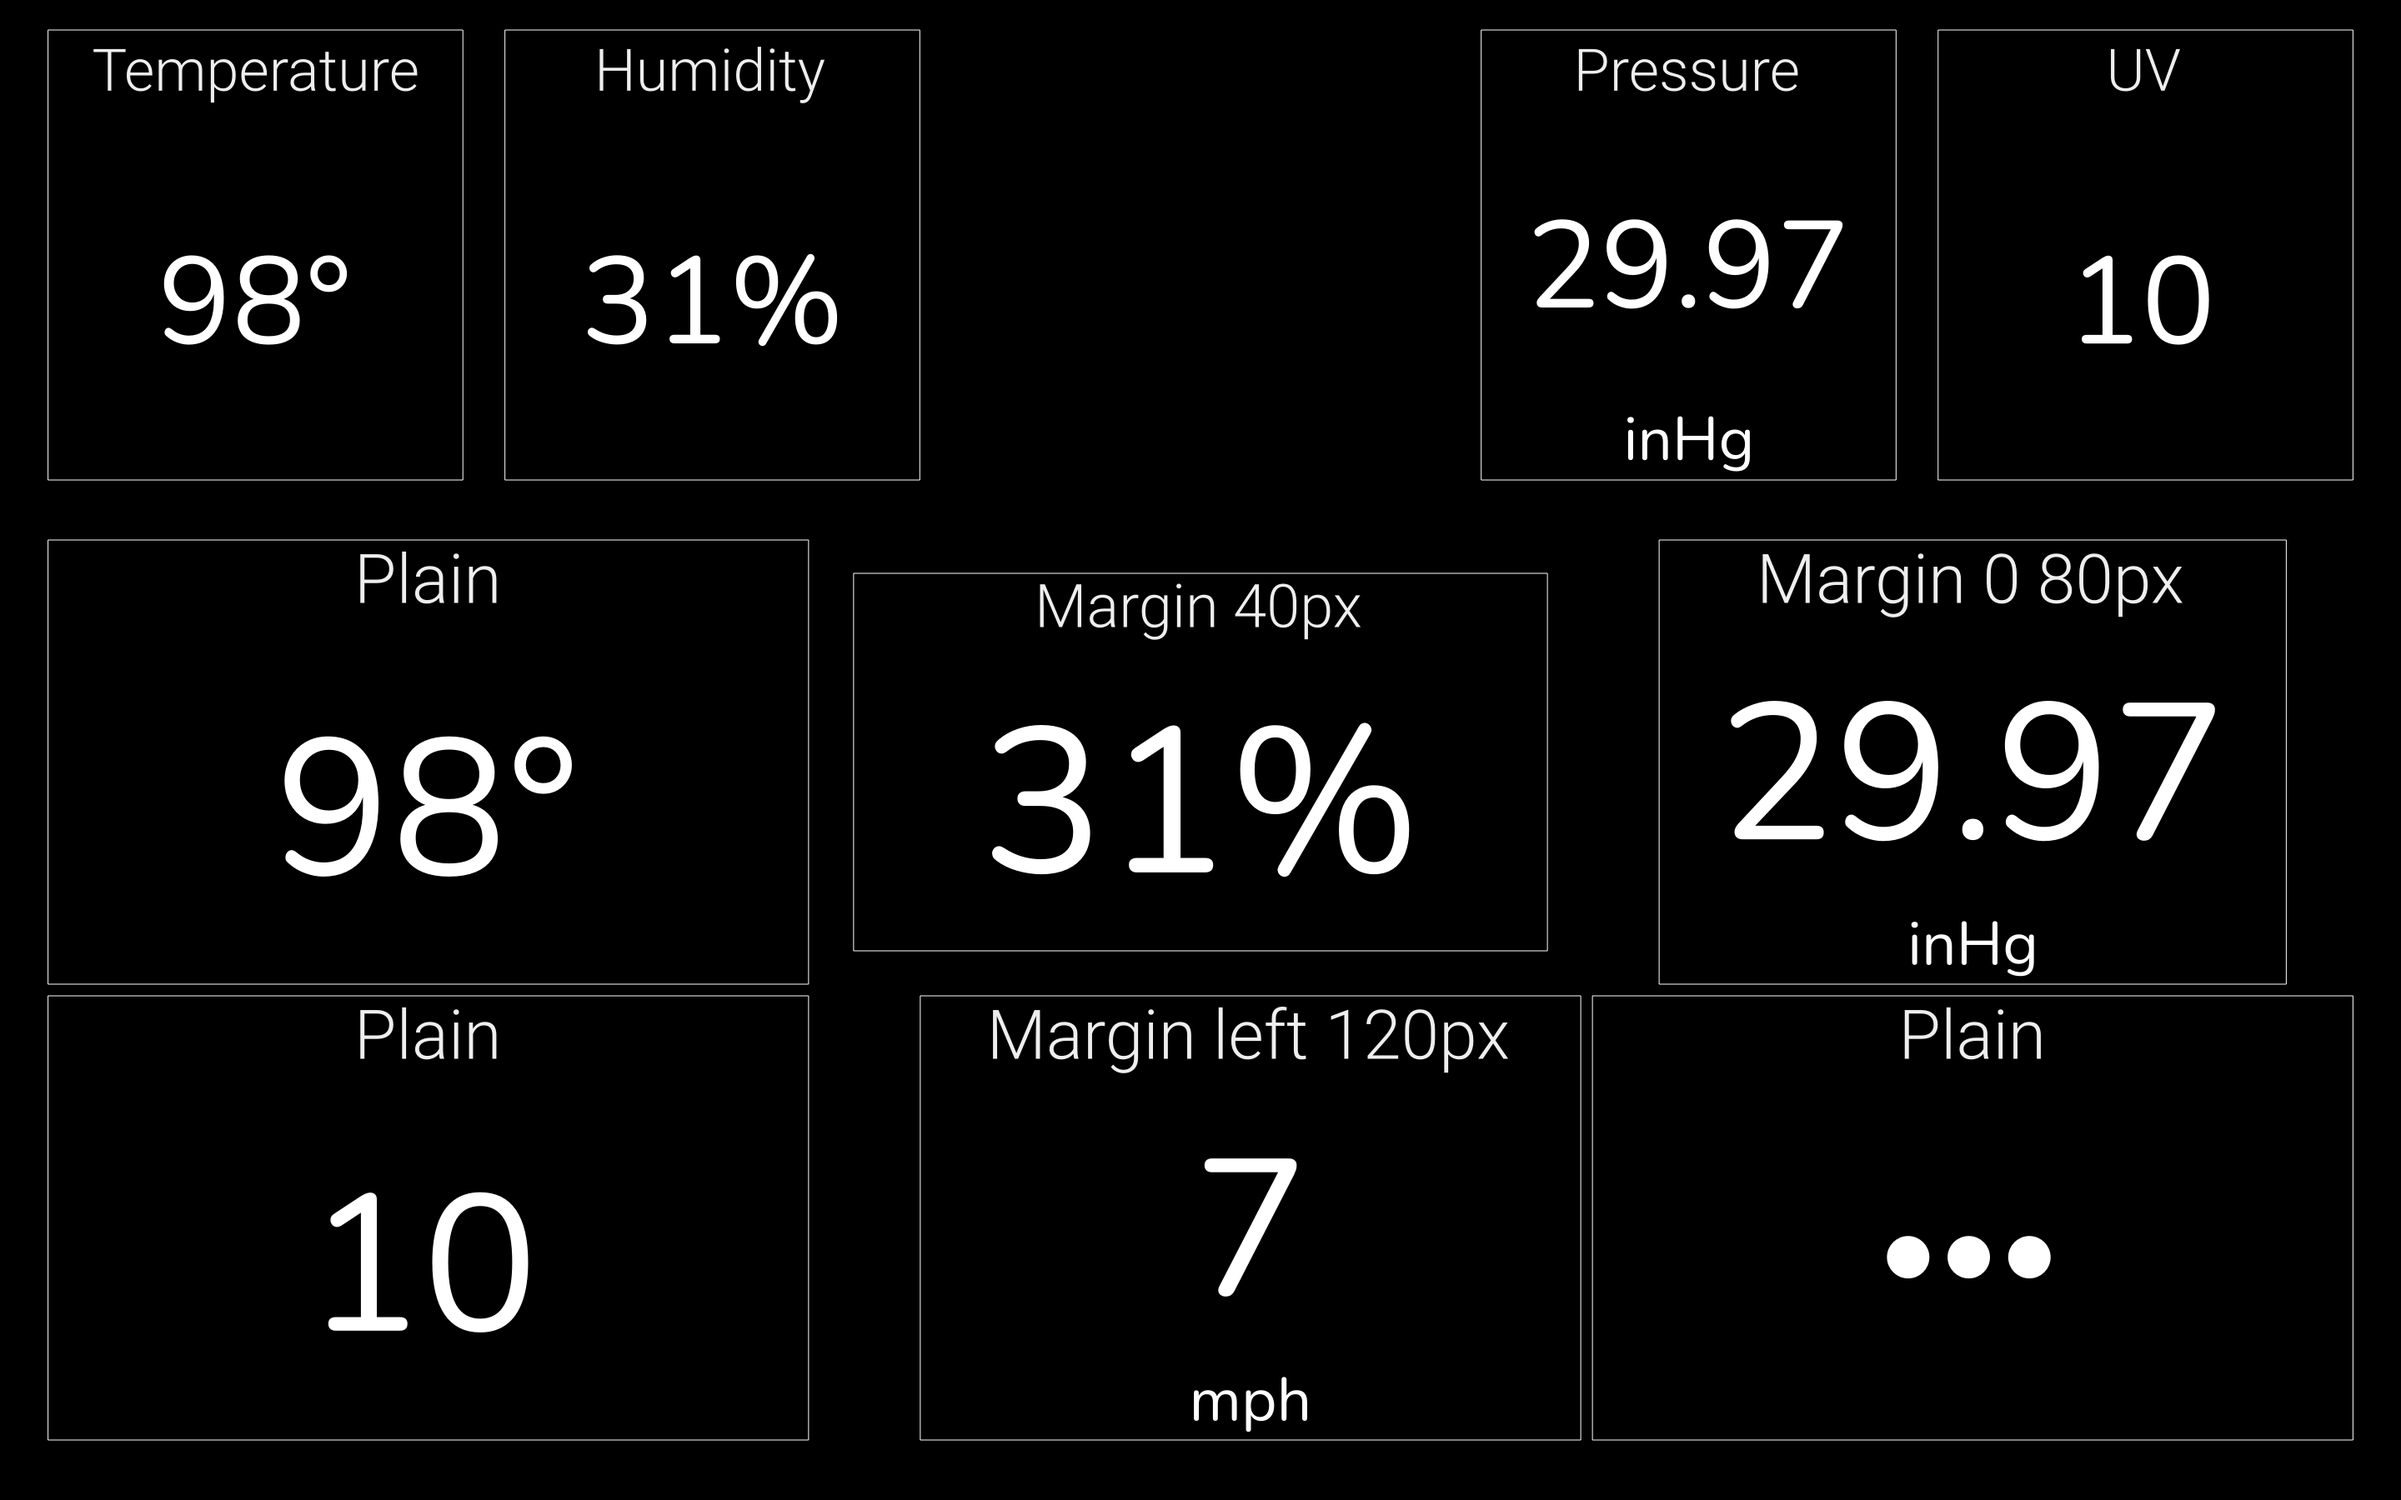
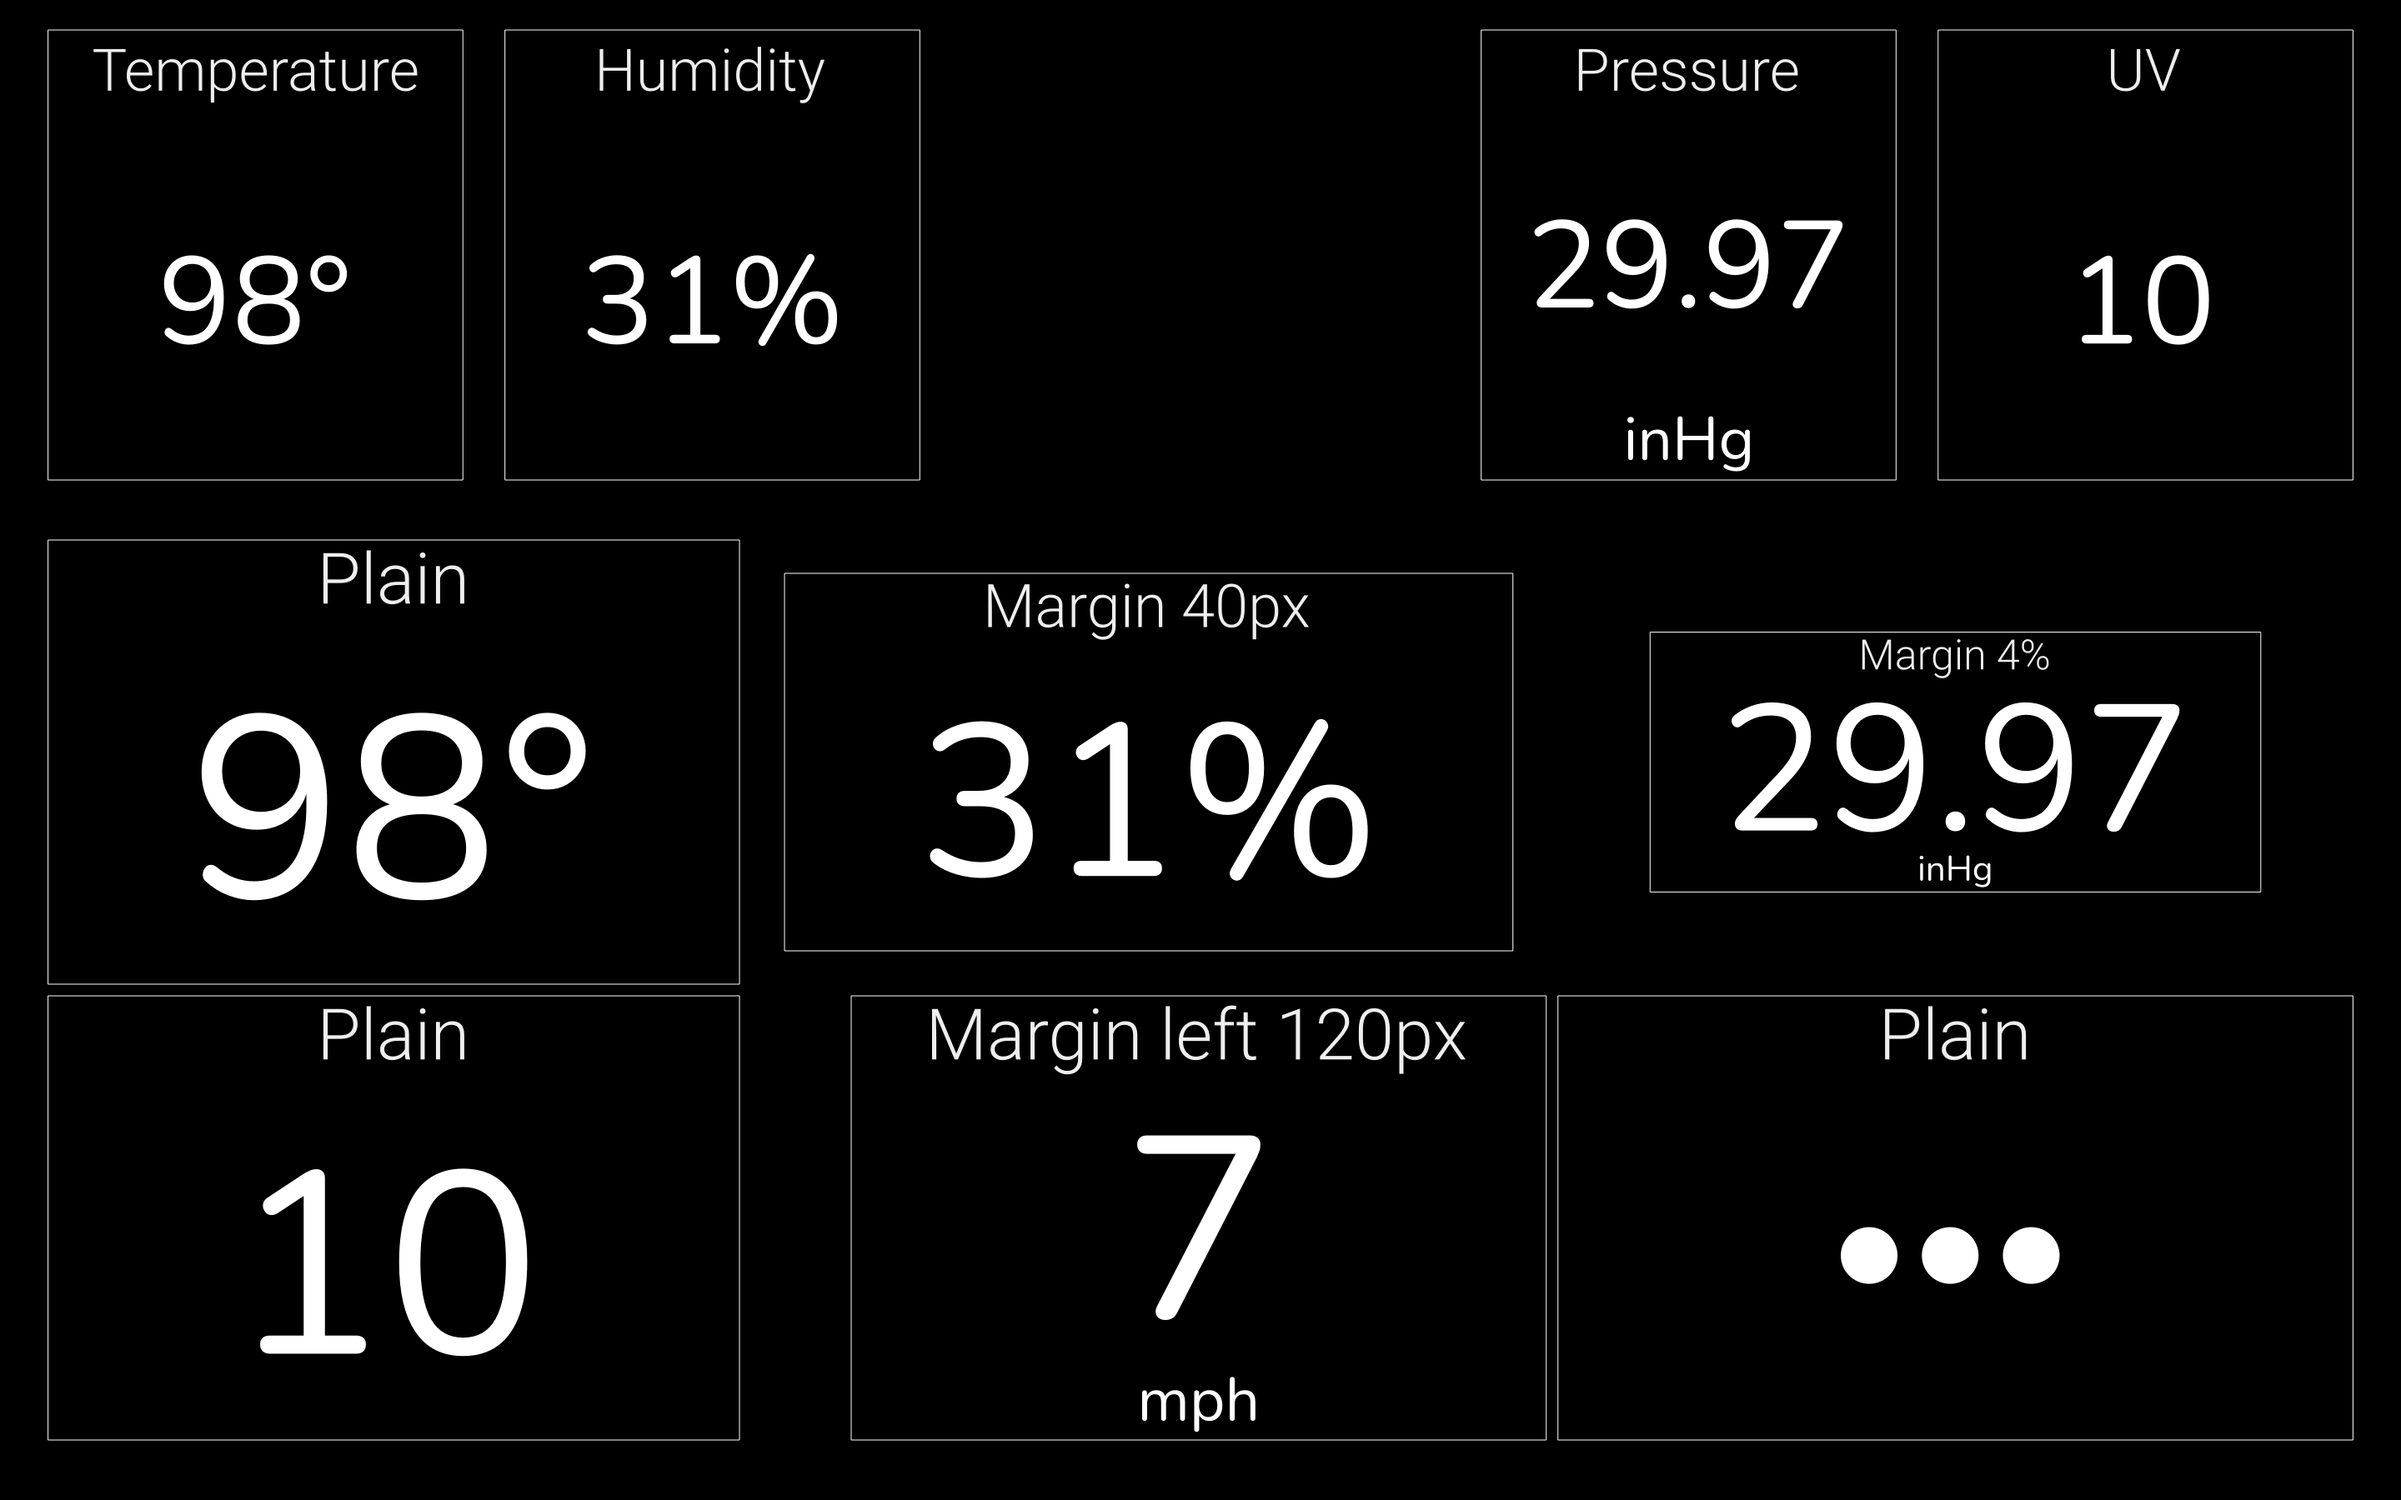
feat(Layout): % track sizes and % margins
Claude-Session: https://claude.ai/code/session_01GE7MkQtVqpahFcAznHsamW

diff --git a/src/LevityDash/lib/ui/frontends/PySide/Modules/Containers/Stacks.py b/src/LevityDash/lib/ui/frontends/PySide/Modules/Containers/Stacks.py
@@ -814,7 +814,7 @@ class Stack(Panel, tag='stack'):
 	def cssMargin(self, value) -> tuple[float | None, float | None, float | None, float | None]:
 		"""A CSS `margin` shorthand (one, two or four values, a string or a list) as pixels: top, right, bottom, left.
 
-		`auto` is None. Top and bottom are shares of the height, left and right of the width.
+		`auto` is None. A `%` is a share of the stack's inner width on every side, as in CSS.
 		"""
 		if value is None:
 			return 0.0, 0.0, 0.0, 0.0
@@ -822,8 +822,17 @@ class Stack(Panel, tag='stack'):
 		if len(parts) not in (1, 2, 4):
 			raise ValueError(f'margin: expected 1, 2 or 4 values, got {value!r}')
 		top, right, bottom, left = {1: parts * 4, 2: parts + parts, 4: parts}[len(parts)]
-		lengths = [None if str(v).casefold() == 'auto' else self.cssPx(v, vertical) for v, vertical in ((top, True), (right, False), (bottom, True), (left, False))]
-		return tuple(lengths)
+		width, _, padLeft, _, padRight, _ = self.cssBox()
+		inline = width - padLeft - padRight
+
+		def length(v, vertical):
+			if str(v).casefold() == 'auto':
+				return None
+			if str(v).strip().endswith('%'):  # a percent margin is a share of the inline size, on every side (CSS)
+				return float(str(v).strip()[:-1]) / 100 * inline
+			return self.cssPx(v, vertical)
+
+		return tuple(length(v, vertical) for v, vertical in ((top, True), (right, False), (bottom, True), (left, False)))
 
 	def cssGapPx(self) -> float:
 		return float(self.spacing_px)
@@ -1623,12 +1632,18 @@ class GridStack(Stack, tag='grid'):
 	def _tracks(self, value, vertical: bool):
 		if value is None:
 			return []
-		return cssgrid.parse_track_list(value, lambda number, unit: self.cssPx(f'{number}{unit}', vertical))
+		return cssgrid.parse_track_list(value, self._trackPx(vertical))
+
+	def _trackPx(self, vertical: bool):
+		"""Length resolver for a track list. `%` is a share of the grid's inner size, as in CSS."""
+		width, height, left, top, right, bottom = self.cssBox()
+		inner = (height - top - bottom) if vertical else (width - left - right)
+		return lambda number, unit: number / 100 * inner if unit == '%' else self.cssPx(f'{number}{unit}', vertical)
 
 	def _trackSize(self, value, vertical: bool) -> cssgrid.TrackSize:
 		if value is None:
 			return cssgrid.TrackSize(cssgrid.Keyword.auto, cssgrid.Fr(1))
-		(track,) = cssgrid.parse_track_list(value, lambda number, unit: self.cssPx(f'{number}{unit}', vertical))
+		(track,) = cssgrid.parse_track_list(value, self._trackPx(vertical))
 		return track
 
 	def setCssGeometries(self):

diff --git a/tests/layout/test_grid.py b/tests/layout/test_grid.py
@@ -49,7 +49,7 @@ def test_parse_track_list_keywords_and_fit_content():
 
 
 @pytest.mark.parametrize('text, bad', [
-	('10%', '10%'),  # % needs the container, the caller resolves it
+	('10%', '10%'),  # % needs a to_px that knows the container
 	('-5px', '-5px'),
 	('2xy 1fr', '2xy'),  # unit with no resolver
 	('minmax(1fr, 2px)', '1fr'),  # fr is only a max
@@ -271,3 +271,9 @@ def test_two_auto_margins_centre_the_item():
 	container = GridContainer(columns=[TrackSize(Keyword.auto, Fr(1))], rows=[TrackSize(Keyword.auto, Fr(1))], width=200, height=100)
 	(rect,) = layout_grid([item(max_content=(50, 20), min_content=(50, 20), margin_inline=Edge(None, None), margin_block=Edge(None, None))], container)
 	assert (rect.x, rect.y, rect.width, rect.height) == (75, 40, 50, 20)
+
+
+def test_percent_track_goes_through_to_px_with_its_unit():
+	seen = []
+	result = parse_track_list('25% 1fr', to_px=lambda v, u: seen.append((v, u)) or v * 8)
+	assert seen == [(25.0, '%')] and result[0] == TrackSize(200.0, 200.0)

diff --git a/src/LevityDash/lib/layout/grid.py b/src/LevityDash/lib/layout/grid.py
@@ -296,8 +296,6 @@ def _breadth(token: str, to_px, *, maximum: bool) -> Breadth:
 		return Fr(value)
 	if unit in ('', 'px'):
 		return value
-	if unit == '%':
-		raise ValueError(f'{token!r}: % needs the container size, so resolve it to px first')
 	if to_px is None:
 		raise ValueError(f'{token!r}: unit {unit!r} needs a to_px function')
 	return float(to_px(value, unit))

diff --git a/docs/config/dashboard/layout.md b/docs/config/dashboard/layout.md
@@ -40,7 +40,7 @@ Put `flex:` on the stack for the container options. Put `flex:` on an item for t
 | `cross` | The size across the stack. Default: the full width of the line. | `height` in a row |
 | `align-self` | Overrides `align-items` for one item. | `align-self` |
 | `order` | Items go in order of this number, then in file order. Default 0. | `order` |
-| `margin` | Space around the item: one, two or four values (top, right, bottom, left), as a list or a string. A side can be `auto`, which takes the free space on that side. `margin: [0, 0, 0, auto]` pushes the item and all after it to the end. | `margin` |
+| `margin` | Space around the item: one, two or four values (top, right, bottom, left), as a list or a string. A side can be `auto` or a `%` (of the stack's inner width, on every side). `auto` takes the free space on that side. `margin: [0, 0, 0, auto]` pushes the item and all after it to the end. | `margin` |
 
 Sizes take `%`, `px`, `mm`, `cm` and `in`, as everywhere else.
 
@@ -63,7 +63,7 @@ An item with a `size:` and no `flex:` keys does not grow, and it can shrink. Thi
 
 | Key | Meaning | CSS |
 |---|---|---|
-| `columns`, `rows` | A list of track sizes: lengths, `fr`, `auto`, `min-content`, `max-content`, `minmax(a, b)`, `fit-content(x)`, `repeat(n, ...)`, `repeat(auto-fill, ...)` and `repeat(auto-fit, ...)`. A string such as `'repeat(3, 1fr)'` works too. `repeat(auto-fill, minmax(200px, 1fr))` makes as many 200px-or-wider columns as the grid's width holds, and the count changes when the window does. `auto-fit` does the same and then drops the empty columns. | `grid-template-columns`, `grid-template-rows` |
+| `columns`, `rows` | A list of track sizes: lengths, `fr`, `auto`, `min-content`, `max-content`, `minmax(a, b)`, `fit-content(x)`, `repeat(n, ...)`, `repeat(auto-fill, ...)` and `repeat(auto-fit, ...)`. A `%` is a share of the grid's inner size. A string such as `'repeat(3, 1fr)'` works too. `repeat(auto-fill, minmax(200px, 1fr))` makes as many 200px-or-wider columns as the grid's width holds, and the count changes when the window does. `auto-fit` does the same and then drops the empty columns. | `grid-template-columns`, `grid-template-rows` |
 | `auto-columns`, `auto-rows` | The size of a track that the items need and the list does not give. Default `1fr`. | `grid-auto-columns`, `grid-auto-rows` |
 | `auto-flow` | `row` (default) or `column`. | `grid-auto-flow` |
 | `dense` | `true` fills earlier holes. | `dense` |
@@ -96,7 +96,7 @@ An item that shows a number reports its size from its **format hint**, the wides
 - A mistake in `flex:` or `grid:` (an unknown key, a wrong word) is an error on that item. The rest of the dashboard loads.
 - Dividers are not drawn in a flex or grid stack.
 - A cell sizes its own text. To make the values in a grid or flex stack the same size, add a `shared:` size group (see the example dashboard).
-- Not yet supported: `subgrid`, named areas, `calc()`, `%` inside a track list, `%` margins, and sizing by anything but the text of a value (a gauge, a graph or a container has no content size, so for them `auto` is 0).
+- Not yet supported: `subgrid`, named areas, `calc()`, and sizing by anything but the text of a value (a gauge, a graph or a container has no content size, so for them `auto` is 0).
 
 Example dashboards: `docs/design-references/layout-margins.levity` (margins), `docs/design-references/css-layout.levity` (render: `docs/design-references/css-layout.png`) and `docs/design-references/grid-bento.levity`, a dense bento board with spans, a `shrink` item and an `auto-fill` strip.
 
